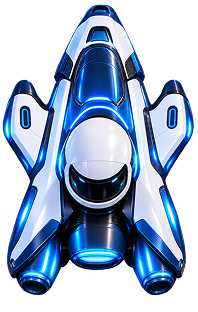
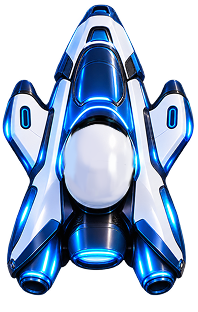
feat: overhaul race visuals, coin scoring, and independent bot logic - Visual Updates:   - Replaced player and bot car assets with new sleek futuristic designs.   - Stopped background panning animation (BACKGROUND_SPEED = 0) and halved road speed for better visual clarity.   - Added a new custom coi
- Game Mechanics:
  - Adjusted coin scoring system to start at 0 and grant exactly 1 coin for every correct answer.
  - Overhauled bot racing logic: The bot now answers independently of the player on every turn with a randomized success rate (50%), gaining its own progress and visual speed boosts when correct, making it a true competitor.
  - Added a 1.5-second cinematic delay after the last question so the cars can visually cross the finish line before the final score screen appears.

Changed region(s): [[0.303, 0.4615, 0.697, 0.6635], [0.3333, 0.375, 0.6667, 0.4327], [0.3939, 0.4615, 0.4545, 0.5192]]

diff --git a/src/components/InfiniteRoad.js b/src/components/InfiniteRoad.js
@@ -65,6 +65,22 @@ export class InfiniteRoad {
     return this.layout();
   }
 
+  showFinishLine() {
+    if (!this.finishLine) {
+      this.finishLine = document.createElement("div");
+      this.finishLine.className = "finish-line";
+      this.track.appendChild(this.finishLine);
+    }
+    this.finishLineY = -100;
+    this.finishLineActive = true;
+    this.finishLineComplete = false;
+    this.finishLine.style.display = "block";
+  }
+
+  completeFinishLine() {
+    this.finishLineComplete = true;
+  }
+
   #resetStack() {
     const height = this.segmentHeight;
     for (let i = 0; i < SEGMENT_COUNT; i += 1) {
@@ -88,6 +104,14 @@ export class InfiniteRoad {
       while (this.positions[i] >= this.viewportHeight) {
         this.positions[i] -= cycle;
       }
+    }
+    if (this.finishLineActive && this.finishLine) {
+      if (!this.finishLineComplete && this.finishLineY >= 80) {
+        this.finishLineY = 80;
+      } else {
+        this.finishLineY += delta;
+      }
+      this.finishLine.style.transform = `translate3d(0, ${this.finishLineY}px, 0)`;
     }
     this.#paint();
   }

diff --git a/src/game/Game.js b/src/game/Game.js
@@ -137,6 +137,10 @@ export class Game {
     this.questionPanel.setWord(q.word);
     this.hud.setProgress(this.questions.number, this.questions.total);
     this.questionPanel.setDisabled(false);
+    
+    if (this.questions.isLast) {
+      this.road.showFinishLine();
+    }
   }
 
   #syncHud() {
@@ -296,9 +300,16 @@ export class Game {
     } else {
       this.race.applyWrong();
       this.state.coins += COINS.wrong;
-      this.botBurst = 0.05;
-      this.botCar.setGlow(true);
       this.audio.playWrong();
+    }
+
+    const botCorrect = Math.random() > 0.5;
+    this.race.applyBotTurn(botCorrect);
+    if (botCorrect) {
+      this.botBurst = 0.08;
+      this.botCar.setGlow(true);
+    } else {
+      this.botBurst = 0.02;
     }
 
     this.#syncHud();
@@ -313,7 +324,10 @@ export class Game {
     this.questionPanel.setDisabled(true);
 
     if (this.questions.isLast) {
-      this.showFinish(false);
+      this.road.completeFinishLine();
+      window.setTimeout(() => {
+        this.showFinish(false);
+      }, 1500);
       return;
     }
 

diff --git a/src/styles.css b/src/styles.css
@@ -819,3 +819,18 @@ button {
     bottom: 12%;
   }
 }
+
+.finish-line {
+  position: absolute;
+  width: 100%;
+  height: 40px;
+  background: repeating-linear-gradient(45deg, #fff 25%, transparent 25%, transparent 75%, #fff 75%, #fff), repeating-linear-gradient(45deg, #fff 25%, #000 25%, #000 75%, #fff 75%, #fff);
+  background-position: 0 0, 20px 20px;
+  background-size: 40px 40px;
+  top: 0;
+  left: 0;
+  z-index: 10;
+  display: none;
+  transform: translate3d(0, -100px, 0);
+  will-change: transform;
+}

diff --git a/src/game/RaceManager.js b/src/game/RaceManager.js
@@ -52,9 +52,17 @@ export class RaceManager {
   }
 
   applyWrong() {
-    this.botProgress += RACE.wrongBotGain;
     this.playerSurge = RACE.surgeWrong * 0.28;
-    this.botSurge = -RACE.surgeWrong;
+  }
+
+  applyBotTurn(isCorrect) {
+    if (isCorrect) {
+      this.botProgress += RACE.correctGain;
+      this.botSurge = -RACE.surgeCorrect * 0.8;
+    } else {
+      this.botProgress += RACE.wrongBotGain || 0;
+      this.botSurge = RACE.surgeWrong * 0.5;
+    }
   }
 
   applyPassiveBot() {

diff --git a/src/config.js b/src/config.js
@@ -7,8 +7,8 @@ export const ASSETS = {
   user: "/assets/user.png",
 };
 
-export const ROAD_SPEED = 1200;
-export const BACKGROUND_SPEED = 22;
+export const ROAD_SPEED = 600;
+export const BACKGROUND_SPEED = 0;
 export const BACKGROUND_TOP = -36;
 export const BACKGROUND_BOTTOM = 36;
 export const BACKGROUND_EASE_ZONE = 14;
@@ -52,9 +52,9 @@ export const RACE = {
 };
 
 export const COINS = {
-  start: 10,
-  correct: 8,
-  close: 3,
+  start: 0,
+  correct: 1,
+  close: 0,
   wrong: 0,
 };
 

diff --git a/src/components/GameHUD.js b/src/components/GameHUD.js
@@ -4,7 +4,7 @@ export class GameHUD {
     this.el.className = "game-hud";
     this.el.innerHTML = `
       <div class="hud-coin">
-        <span class="coin-icon" aria-hidden="true">●</span>
+        <img class="coin-icon" src="/assets/daddcoin.webp" alt="Coin" style="width: 24px; height: 24px; object-fit: contain; margin-left: 6px;" />
         <span class="coin-value">0</span>
       </div>
       <div class="hud-right">
